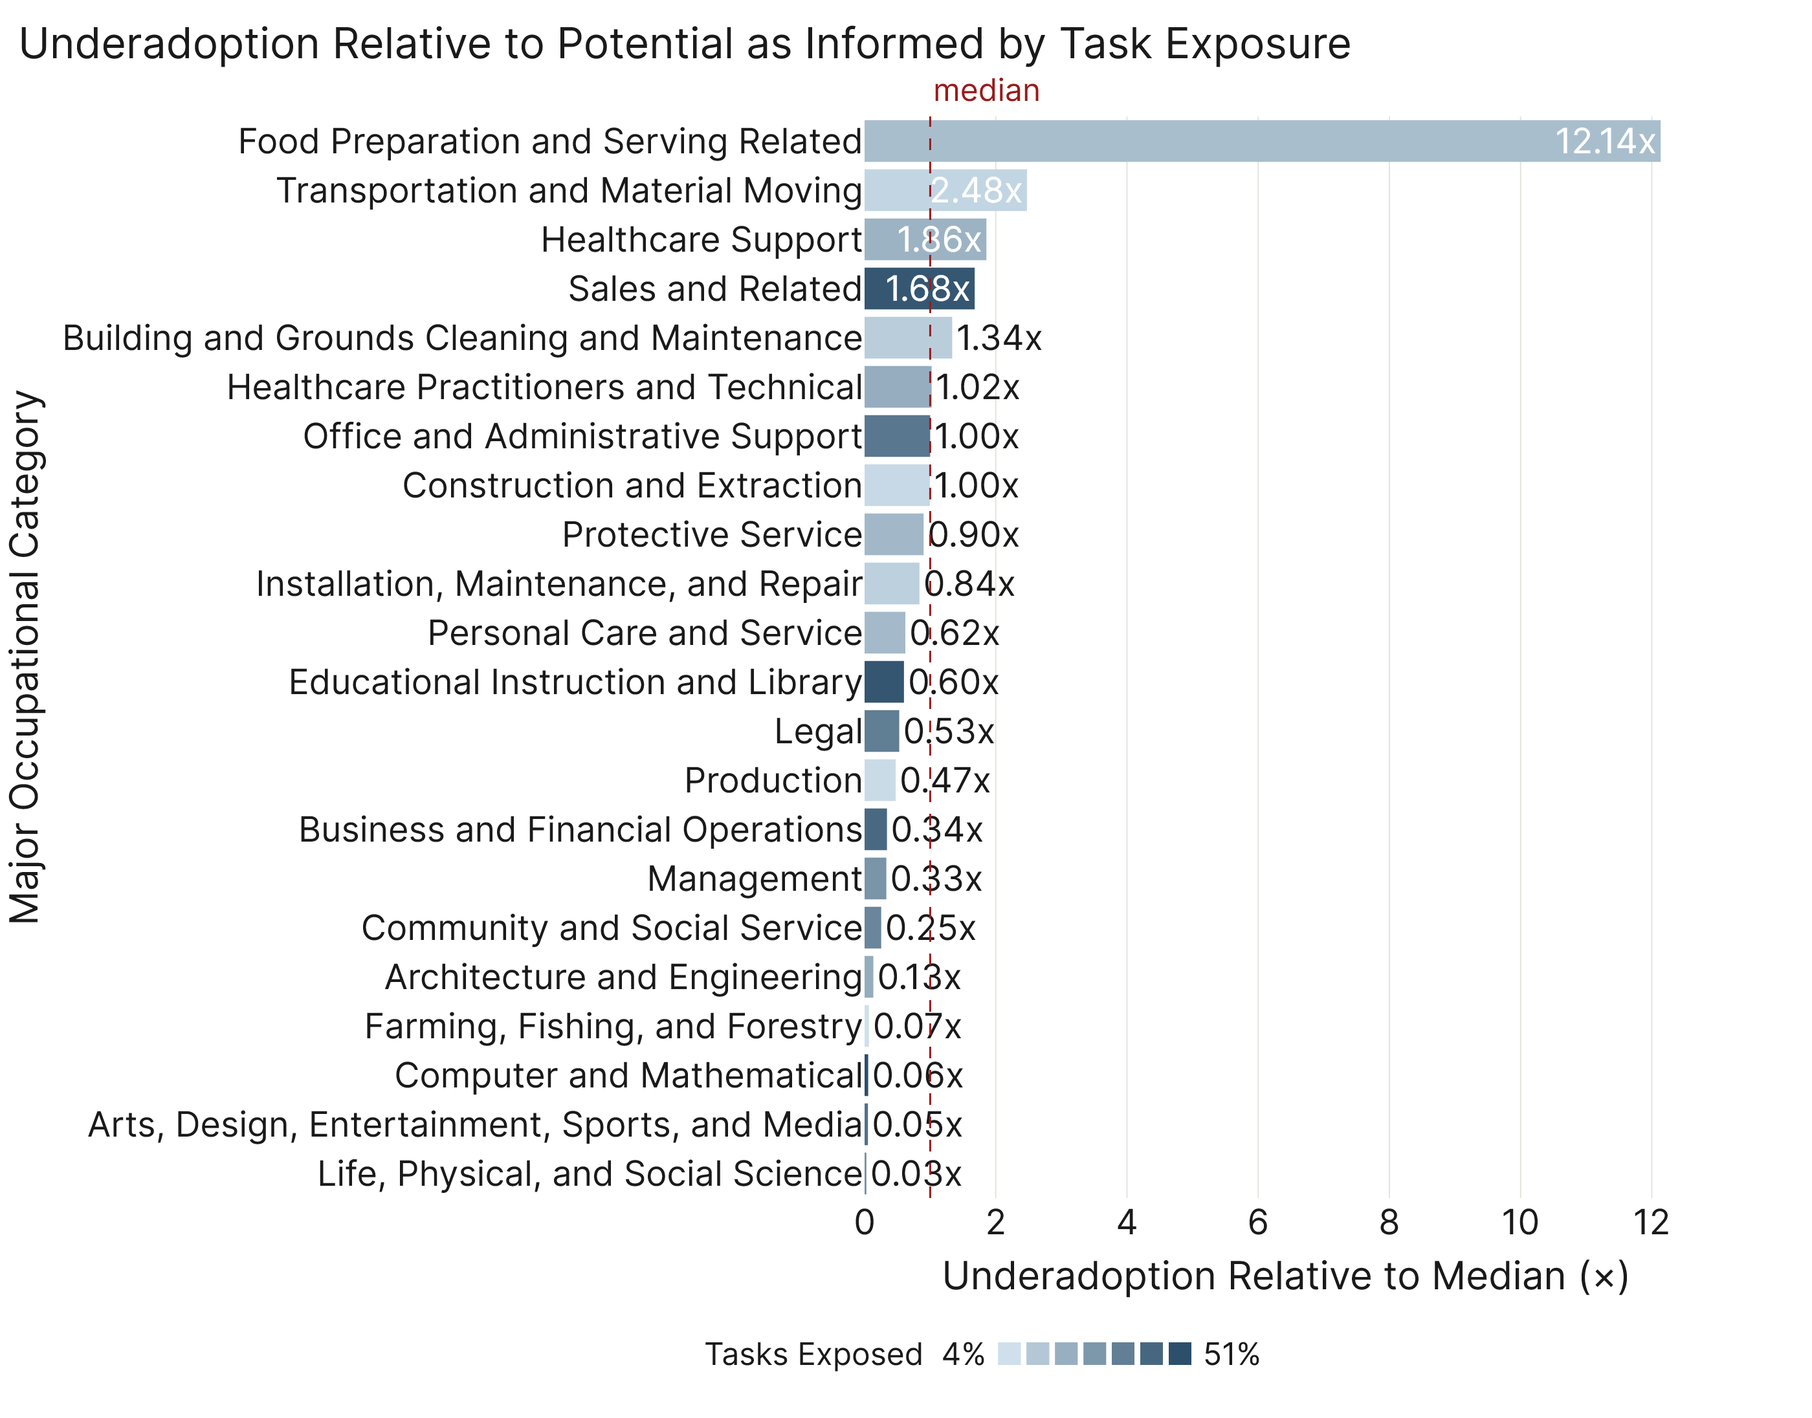
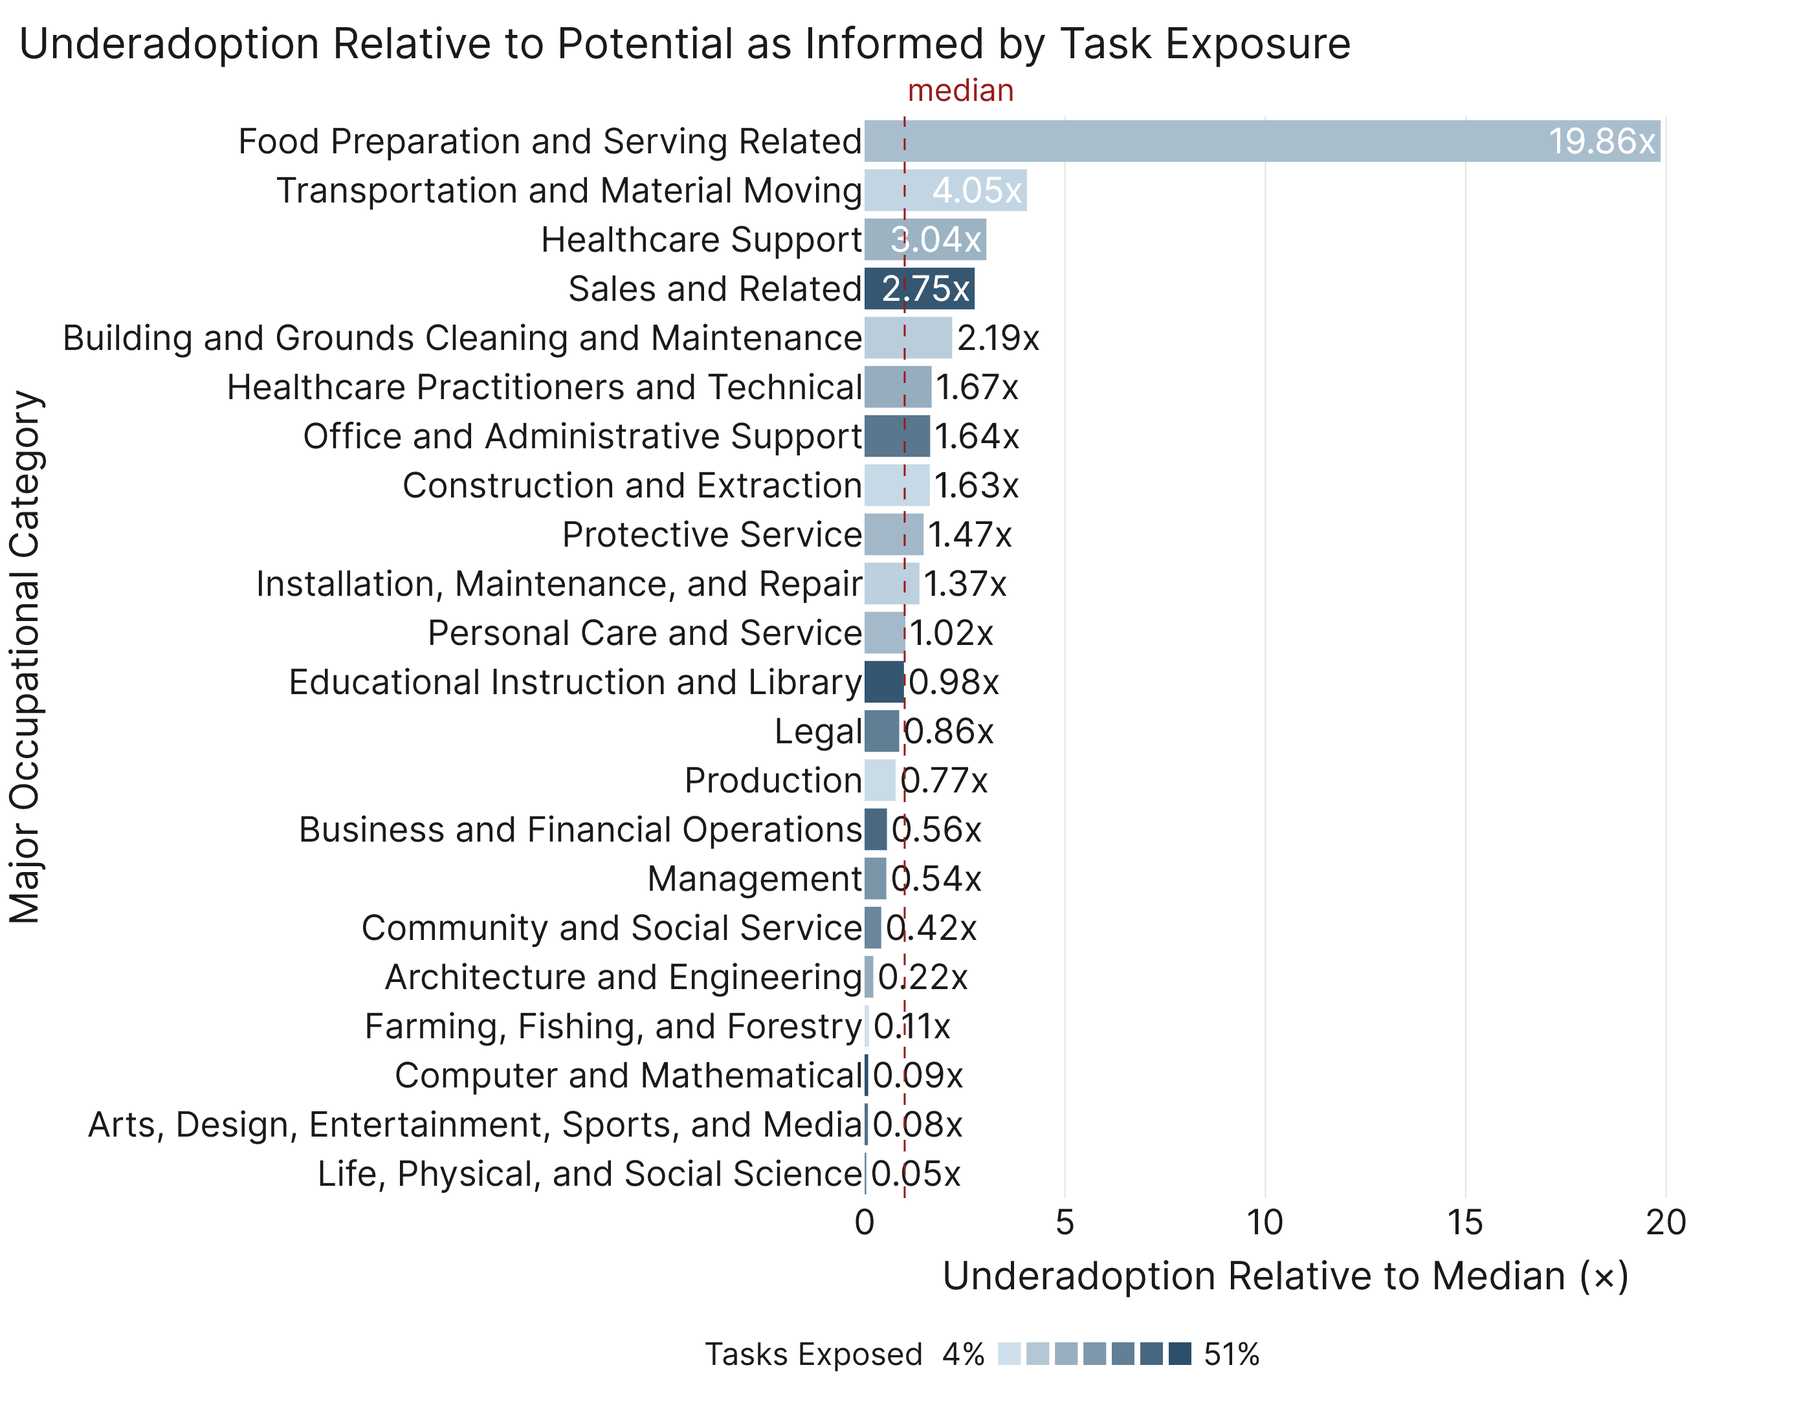
Under adoption chart change, state results dense prose updated.

diff --git a/analysis/paper/results/appendix/run.py b/analysis/paper/results/appendix/run.py
@@ -2992,11 +2992,11 @@ def build_state_clusters_combined_ranked(results: Path, figures: Path) -> None:
 # ──────────────────────────────────────────────────────────────────────────
 
 def build_underadoption_gap(results: Path, figures: Path) -> None:
-    """Underadoption relative to potential, anchored on Office and Admin.
+    """Underadoption relative to potential, normalized on the median major.
 
     Per major:
       raw_gap   = pct_tasks_affected / ratio_full_pct
-      gap_ratio = raw_gap / raw_gap[Office and Admin]
+      gap_ratio = raw_gap / median(raw_gap)
 
     Numerator (pct_tasks_affected): % of an occupation's task completions
     AI can affect — the 'potential' informed by task exposure (Part 2
@@ -3005,10 +3005,9 @@ def build_underadoption_gap(results: Path, figures: Path) -> None:
     employment×freq baseline (same backbone as Part 3
     intensity_anchor_fulleco).
 
-    Anchoring on Office and Admin (a near-median major) makes lift read
-    as 'X times more underadopted than Office and Admin'. Median dashed
-    line sits at x=1, mirroring the intensity chart so the pair reads
-    consistently.
+    Normalizing on the median raw_gap across the 22 majors makes lift read
+    as 'X times more underadopted than the median major'. The median dashed
+    line sits at x=1 by construction.
     """
     try:
         from analysis.exploratory.audit_pct_norm_eco.run import (
@@ -3046,23 +3045,23 @@ def build_underadoption_gap(results: Path, figures: Path) -> None:
     pct_aff = major_df.set_index("category")["pct_tasks_affected"]
     base["pct_tasks_affected"] = base["category"].map(pct_aff).fillna(0.0)
 
-    # ── Raw gap, then anchored to Office and Admin so lift reads as a
-    # clean multiple ("× more underadopted than Office and Admin").
+    # ── Raw gap, then normalized to the median major so lift reads as a
+    # clean multiple ("× more underadopted than the median major"). pandas
+    # .median() skips the NaN rows (majors with no AI usage mass).
     base["raw_gap"] = np.where(
         base["ratio_full_pct"] > 0,
         base["pct_tasks_affected"] / base["ratio_full_pct"],
         np.nan,
     )
-    anchor_major = "Office and Administrative Support Occupations"
-    anchor_gap = base.loc[base["category"] == anchor_major, "raw_gap"].iloc[0]
-    assert anchor_gap > 0, f"Anchor gap for {anchor_major} must be > 0"
-    base["gap_ratio"] = base["raw_gap"] / anchor_gap
+    median_gap = float(base["raw_gap"].median())
+    assert median_gap > 0, "Median raw_gap must be > 0"
+    base["gap_ratio"] = base["raw_gap"] / median_gap
 
     out = base[
         ["category", "pct_tasks_affected", "ratio_full_pct",
          "raw_gap", "gap_ratio"]
     ].sort_values("gap_ratio", ascending=False)
-    out["anchor_value"] = anchor_gap
+    out["median_value"] = median_gap
     save_csv(out, results / "underadoption_gap.csv", float_format="%.4f")
 
     plot_df = base.sort_values("gap_ratio", ascending=True).reset_index(drop=True)
@@ -3114,7 +3113,7 @@ def build_underadoption_gap(results: Path, figures: Path) -> None:
         showlegend=False,
     ))
 
-    # Median reference line — Office and Admin sits at x = 1 by construction.
+    # Median reference line — the median major sits at x = 1 by construction.
     fig.add_vline(
         x=1.0, line_dash="dash",
         line_color=PAPER_PALETTE["negative"], line_width=1.5,

diff --git a/analysis/paper/results/part_3/run.py b/analysis/paper/results/part_3/run.py
@@ -1410,6 +1410,18 @@ def build_state_clusters_map(results: Path, figures: Path) -> None:
     cluster_color = pkg["cluster_color"]
     order = pkg["order"]
 
+    # Persist the per-state cluster assignments alongside the figure so the
+    # CSV can never drift out of sync with the rendered map again (the dense-
+    # prose tables are transcribed from this CSV). Same columns/format the
+    # appendix state_clusters_each_ranked.csv uses, since both come from the
+    # identical compute_clusters() call.
+    save_csv(
+        state_df[["geo", "cluster", "cluster_name",
+                  "pct_emp_wtd", "focused_share_pct"]],
+        results / "state_clusters_map.csv",
+        float_format="%.3f",
+    )
+
     # Recompute K-means disagreement on the same input clustering went into.
     raw = _load_state_features()
     sub_in = raw[~raw["geo"].isin(OUTLIER_GEOS)].copy().reset_index(drop=True)

diff --git a/analysis/paper/results/appendix/README.md b/analysis/paper/results/appendix/README.md
@@ -14,7 +14,7 @@ Ordered to match the paper's chart flow — correlation, aggregate economy, tren
 - **ska_knowledge_full / ska_abilities_full** — two element-level appendix charts, one per SKA type. Mirror the main-body Part 2 framing (bar = AI Top-10 Avg as % of workforce max, colored by phys-mix tier; AI Max ◆ + Workforce Mean ●), expanded to the full element list. Labels carry their O*NET subcategory in parentheses. Manual 3-row legend rendered via shapes + annotations (more reliable than Plotly multi-legend for the larger left-margin layouts). The skills element-level chart was promoted to the main body and now lives at `part_2/figures/ska_skills.png`.
 - **state_clusters_each_ranked** — companion to Part 3's `state_clusters_map`. Two-panel ranked bar chart with each panel sorted independently: left panel sorts the 51 states by % workforce exposed descending, right panel sorts by % in High AI Exp & <0 Emp Proj occupations descending. Cluster colors (Ward labels from `deepdive_state_clusters.compute_clusters()`) stay consistent across panels — a state's color is the same in both, so the reader can compare its left rank vs. right rank visually. Knowledge-economy states (mid blue) top the left panel but sit near the bottom of the right; the high-vulnerability cluster (dark blue) dominates the top of the right panel and spreads through the middle of the left.
 - **state_clusters_combined_ranked** — companion to `state_clusters_each_ranked`. Each state's rank on the two panels above is summed (rank 1 = highest exposure per panel, so lower combined rank = more exposed on BOTH metrics). States sorted ascending by combined rank — most exposed on both at top. Single horizontal bar per state colored by Ward cluster (palette matches the panel chart above); a thick colored border marks Ward/K-means disagreement states with the K-means alternative cluster color (the panel chart uses diagonal stripes for the same signal — the border treatment was chosen here so the single solid bars stay clean). End-of-bar label: bold combined rank sum followed by `(workforce rank, focused-set rank)` in parentheses. Header annotation under the title spells out the label format so the reader doesn't have to consult the caption. Reads as a single-number summary of where the two ranking axes agree (and where outliers like DC, #1 on workforce but #51 on focused, land mid-pack).
-- **underadoption_gap** — per-major underadoption relative to potential as informed by task exposure. `raw_gap = pct_tasks_affected / ratio_full_pct` (Part 3 intensity model's full-eco share of AI usage), then anchored on Office and Administrative Support so values read as a clean multiple: `gap_ratio = raw_gap / raw_gap[Office and Admin]`. Office sits at x=1 with a dashed median line; majors above 1 are more underadopted than the anchor, below 1 less. Color encodes `pct_tasks_affected` with the same gradient legend as `intensity_anchor_fulleco`. Reads as the companion to that chart — same anchor, same median framing. **Both sides of the gap ratio use `AEI Both 2025 2026-02-12` (AEI-only, eco_2025-rebased, no Microsoft) — see Config below.**
+- **underadoption_gap** — per-major underadoption relative to potential as informed by task exposure. `raw_gap = pct_tasks_affected / ratio_full_pct` (Part 3 intensity model's full-eco share of AI usage), then normalized on the median major so values read as a clean multiple: `gap_ratio = raw_gap / median(raw_gap)`. The median major sits at x=1 with a dashed median line (no single category is privileged as an anchor); majors above 1 are more underadopted than the median, below 1 less. Color encodes `pct_tasks_affected` with the same gradient legend as `intensity_anchor_fulleco`. Reads as the companion to that chart — same gradient/median framing (note: `intensity_anchor_fulleco` still anchors its x=1 line on Office and Administrative Support, a near-median proxy). **Both sides of the gap ratio use `AEI Both 2025 2026-02-12` (AEI-only, eco_2025-rebased, no Microsoft) — see Config below.**
 - **intensity_drivers_{occ,task}_{comp_math,arts_design_ent,life_phys_soc_sci}** — six within-major decompositions of Part 3's `intensity_anchor_fulleco` for the three high-lift majors (Computer/Mathematical, Arts/Design/Entertainment, Life/Phys/Sci). Per occ or task: `lift = (Σ debiased adj_pct / Σ freq×emp) ÷ within-major median ratio`. Bars are top-10 by lift, sorted descending. Color: `pct_tasks_affected` on occ charts (mirrors main body), `auto_aug_mean` on task charts. Outside text on each bar shows `lift× (raw pct%)` where raw pct is the un-debiased `pct_normalized` sum (already in percent units, so it carries a `%`). Task charts use the original task statement (with case + punctuation), not `task_normalized`. Median annotation only on occ charts (task charts' long wrapped labels and tight title spacing leave no room above the plot). **Uses `AEI Both 2025 2026-02-12` (no Microsoft) — see Config below.**
 - **adoption_friction_scatter** — two-panel occupation-level scatter testing the Section 3 adoption-layer prediction that risk (`r`) and deployment friction (`df`) discriminate exposure once capability is roughly held constant. Restricted to the 409 occupations whose unique-task share of physical tasks is `< 33%` (Part 2's Non-Physical bucket); one dot per occupation. X-axis is the unweighted mean of the friction property across **all** of that occupation's tasks (from `data/final_eco_2025_with_task_properties.csv`, the same 12-property file `audit_task_properties` uses) — the non-physical restriction lives at the occupation level only, so no double-filter at task level. Y-axis is % Tasks Exposed under `all_confirmed`. Dot color mirrors y (light → dark blue ramp). Dashed OLS fit with a Spearman ρ inset per panel. Headline: ρ = −0.50*** for `r`, −0.42*** for `df`, both n = 409, p &lt; .001. Notes: freq×emp weighting was tried and washes the cross-occ variance out; major-level rollups within non-phys give ρ ≈ 0 — the property discrimination lives at occupation level here.
 - **capability_vs_adoption_all_occs** — companion to `adoption_friction_scatter`, 4-row panel chart across all 923 occupations. Row 1 (one wide panel, gray ramp): `pct_physical` per occupation — the raw structural variable, ρ = −0.78 against exposure. Rows 2–3 (blue ramp, 4 panels): capability properties — Schaal ag (ρ +0.55), Schaal da (ρ +0.66), our s (ρ +0.68), our d (ρ +0.60). Row 4 (gold ramp, 2 panels): our adoption frictions — r (ρ −0.19), df (ρ −0.17). Per-occupation property means are unweighted across all of the occupation's tasks. All ρ are highly significant at p &lt; .001 (n = 923 per panel); significance markers omitted from the inset to keep the chart clean. The capability props ride the phys/non-phys split visible in row 1, while the friction props barely discriminate at the all-occ level — this is why the friction signal only emerges once `adoption_friction_scatter` restricts to non-physical occupations. Together the two charts show the framework's three-layer structure (structural → capability → adoption).

diff --git a/analysis/paper/results/results_prose_dense.md b/analysis/paper/results/results_prose_dense.md
@@ -714,76 +714,76 @@ The chart's bottom legend reads "BLS Emp Proj 2024–2034 (more negative → dar
 Chart title: "U.S. States Clustered on Workforce Exposure". Matplotlib choropleth of the U.S. states colored by Ward hierarchical-cluster assignment (k pinned to 3 plus 1 outlier). DC renders as a small filled circle marker east of MD with a black outline and a "DC" text label. AK and HI render in lower-left inset axes with the labels "AK" and "HI" above each inset. States where Ward and K-means disagree carry a diagonal-stripe (`////`) overlay drawn in the K-means cluster's color on top of the Ward fill (matplotlib `hatch.linewidth` = 0.7).
 
 **Cluster definitions (per `state_clusters_map.csv` `cluster_name`):**
-- **Cluster −1 (outlier)**: DC — "45.9% workforce exposed, 4.5% emp share in High AI Exp & <0 Emp Proj occs."
-- **Cluster 1**: "Mid Workforce Exposed / Highest Emp Share in High AI Exp & <0 Emp Proj Occs." 16 states.
-- **Cluster 2**: "Highest Workforce Exposed / Lowest Emp Share in High AI Exp & <0 Emp Proj Occs." 6 states.
-- **Cluster 3**: "Lowest Workforce Exposed / Mid Emp Share in High AI Exp & <0 Emp Proj Occs." 28 states.
+- **Cluster −1 (outlier)**: DC — "49.2% workforce exposed, 4.5% emp share in High AI Exp & <0 Emp Proj occs."
+- **Cluster 1**: "Lowest Workforce Exposed / Mid Emp Share in High AI Exp & <0 Emp Proj Occs." 36 states.
+- **Cluster 2**: "Highest Workforce Exposed / Lowest Emp Share in High AI Exp & <0 Emp Proj Occs." 5 states.
+- **Cluster 3**: "Mid Workforce Exposed / Highest Emp Share in High AI Exp & <0 Emp Proj Occs." 9 states.
 
 The map itself encodes only the cluster color; the underlying per-state `pct_emp_wtd` and `focused_share_pct` values are listed below (these are the two features the cluster algorithm uses).
 
 **Cluster −1 (outlier, 1 state):**
-- DC — pct_emp_wtd 45.901%, focused_share_pct 4.471%.
+- DC — pct_emp_wtd 49.197%, focused_share_pct 4.536%.
 
-**Cluster 1 (Mid Exposure / Highest Focused Share, 16 states):**
-- MS 32.588% / 11.562%
-- OK 32.716% / 11.050%
-- ID 32.817% / 11.618%
-- SC 33.827% / 10.934%
-- ME 34.175% / 10.605%
-- AK 34.515% / 10.474%
-- AZ 34.633% / 10.648%
-- TN 34.635% / 10.824%
-- MO 34.769% / 10.517%
-- NM 34.992% / 12.083%
-- CT 35.690% / 10.533%
-- FL 35.701% / 11.106%
-- UT 35.846% / 10.852%
-- NH 36.061% / 11.386%
-- TX 36.586% / 10.743%
-- NY 37.043% / 11.140%
+**Cluster 1 (Lowest Workforce Exposed / Mid Focused Share, 36 states):**
+- IN 33.617% / 9.378%
+- MS 34.280% / 11.678%
+- ND 34.307% / 8.960%
+- NV 34.455% / 10.161%
+- WY 34.884% / 10.020%
+- LA 35.569% / 9.704%
+- OK 35.907% / 10.799%
+- AR 35.958% / 10.307%
+- KY 35.969% / 10.868%
+- TN 36.029% / 10.181%
+- ID 36.044% / 10.807%
+- AL 36.237% / 10.206%
+- WI 36.258% / 9.801%
+- SD 36.386% / 10.608%
+- KS 36.389% / 9.824%
+- WV 36.389% / 9.875%
+- IL 36.405% / 8.963%
+- IA 36.493% / 9.573%
+- OH 36.669% / 9.657%
+- AK 36.787% / 9.623%
+- HI 36.829% / 10.222%
+- NE 36.943% / 10.151%
+- PA 37.154% / 9.475%
+- MI 37.282% / 9.553%
+- MT 37.327% / 10.154%
+- ME 37.418% / 10.446%
+- OR 37.476% / 9.356%
+- GA 37.975% / 9.700%
+- NC 38.011% / 9.057%
+- MN 38.031% / 10.152%
+- RI 38.224% / 9.845%
+- MO 38.242% / 9.764%
+- VT 38.293% / 9.061%
+- NJ 38.502% / 9.653%
+- CT 39.037% / 10.078%
+- CA 39.100% / 8.498%
 
-**Cluster 2 (Highest Workforce Exposed / Lowest Focused Share, 6 states):**
-- CA 35.629% / 8.459%
-- WA 37.059% / 9.241%
-- MA 37.356% / 9.168%
-- VA 37.426% / 9.360%
-- MD 38.040% / 9.543%
-- CO 38.866% / 9.565%
+**Cluster 2 (Highest Workforce Exposed / Lowest Focused Share, 5 states):**
+- WA 40.157% / 9.096%
+- MD 40.905% / 9.287%
+- MA 40.994% / 8.868%
+- CO 41.094% / 9.323%
+- VA 41.252% / 9.255%
 
-**Cluster 3 (Lowest Workforce Exposed / Mid Focused Share, 28 states):**
-- NV 30.334% / 9.114%
-- IN 31.170% / 9.433%
-- KY 31.337% / 10.225%
-- ND 31.593% / 9.310%
-- WY 31.966% / 10.459%
-- LA 32.975% / 10.215%
-- AR 32.980% / 10.344%
-- SD 33.138% / 10.310%
-- WI 33.144% / 9.709%
-- AL 33.153% / 10.183%
-- IL 33.310% / 9.399%
-- KS 33.420% / 9.934%
-- HI 33.652% / 10.363%
-- OH 33.683% / 9.413%
-- NE 33.703% / 9.691%
-- MT 33.969% / 10.303%
-- WV 34.103% / 9.804%
-- IA 34.377% / 9.755%
-- PA 34.434% / 9.877%
-- MI 34.442% / 9.541%
-- OR 34.647% / 9.303%
-- MN 34.979% / 10.221%
-- RI 34.988% / 9.573%
-- NJ 35.127% / 10.008%
-- GA 35.518% / 9.955%
-- VT 35.789% / 9.393%
-- DE 35.827% / 10.181%
-- NC 36.126% / 9.528%
+**Cluster 3 (Mid Workforce Exposed / Highest Focused Share, 9 states):**
+- AZ 37.492% / 11.037%
+- NM 37.989% / 11.380%
+- SC 38.053% / 11.385%
+- FL 38.629% / 11.185%
+- UT 38.691% / 11.050%
+- TX 38.757% / 10.646%
+- NH 38.814% / 11.903%
+- DE 38.879% / 10.553%
+- NY 40.575% / 10.712%
 
-(Cluster 3 contains 28 states; Cluster 1 = 16; Cluster 2 = 6; outlier = DC. Total 51 jurisdictions = 50 states + DC.)
+(Cluster 1 contains 36 states; Cluster 3 = 9; Cluster 2 = 5; outlier = DC. Total 51 jurisdictions = 50 states + DC.)
 
-`pct_emp_wtd` range: 30.334% (NV) to 45.901% (DC); spread excluding DC is 30.3% (NV) → 38.9% (CO).
-`focused_share_pct` range: 4.471% (DC) to 12.083% (NM); spread excluding DC is 8.459% (CA) → 12.083% (NM).
+`pct_emp_wtd` range: 33.617% (IN) to 49.197% (DC); spread excluding DC is 33.6% (IN) → 41.3% (VA).
+`focused_share_pct` range: 4.536% (DC) to 11.903% (NH); spread excluding DC is 8.498% (CA) → 11.903% (NH).
 
 The legend below the map (2 columns, centered) renders the cluster names — each with a colored patch swatch — followed by one additional entry: a gray patch with diagonal hatching labeled "Ward / K-means disagreement (stripe color = K-means)". The "Lowest" cluster name in the legend is shortened to "Lowest Workforce Exposed / Mid Focused-Set Share" (and similar substitutions for the other clusters) so the labels fit the legend width; the outlier entry shortens to "DC (outlier)".
 
@@ -1340,7 +1340,7 @@ Left panel range: 33.617% (IN) → 49.197% (DC). Top 5 by `pct_emp_wtd`: DC (49.
 
 Right panel range: 4.536% (DC) → 11.903% (NH). Top 5 by `focused_share_pct`: NH (11.903%), MS (11.678%), SC (11.385%), NM (11.380%), FL (11.185%). Bottom 5: DC (4.536%), CA (8.498%), MA (8.868%), ND (8.960%), IL (8.963%).
 
-Cluster legend at the bottom of the chart (per `state_clusters_each_ranked.csv` `cluster_name` mapping; this appendix CSV has different cluster labels than the main Part 3 `state_clusters_map.csv`):
+Cluster legend at the bottom of the chart (per `state_clusters_each_ranked.csv` `cluster_name` mapping; this appendix CSV shares the same cluster ID → label mapping as the main Part 3 `state_clusters_map.csv`, since both come from the identical `compute_clusters()` call):
 - Cluster 1: Lowest Workforce Exposed / Mid Emp Share in High AI Exp & <0 Emp Proj Occs (36 states).
 - Cluster 2: Highest Workforce Exposed / Lowest Emp Share in High AI Exp & <0 Emp Proj Occs (5 states).
 - Cluster 3: Mid Workforce Exposed / Highest Emp Share in High AI Exp & <0 Emp Proj Occs (9 states).
